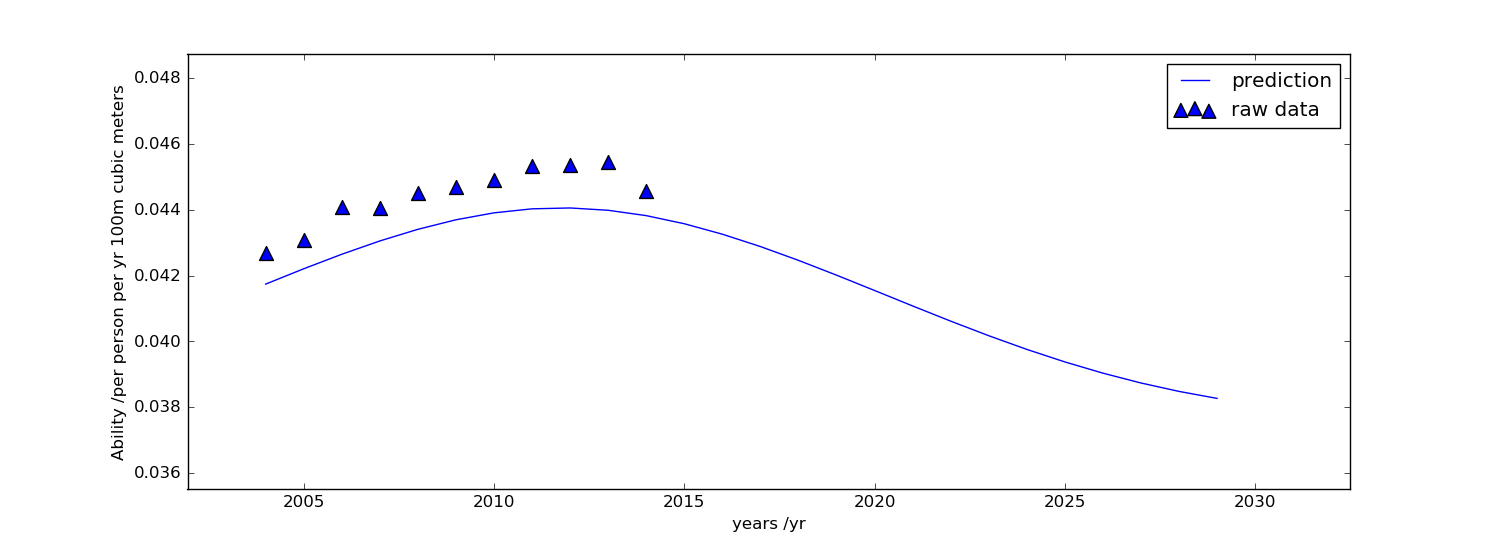
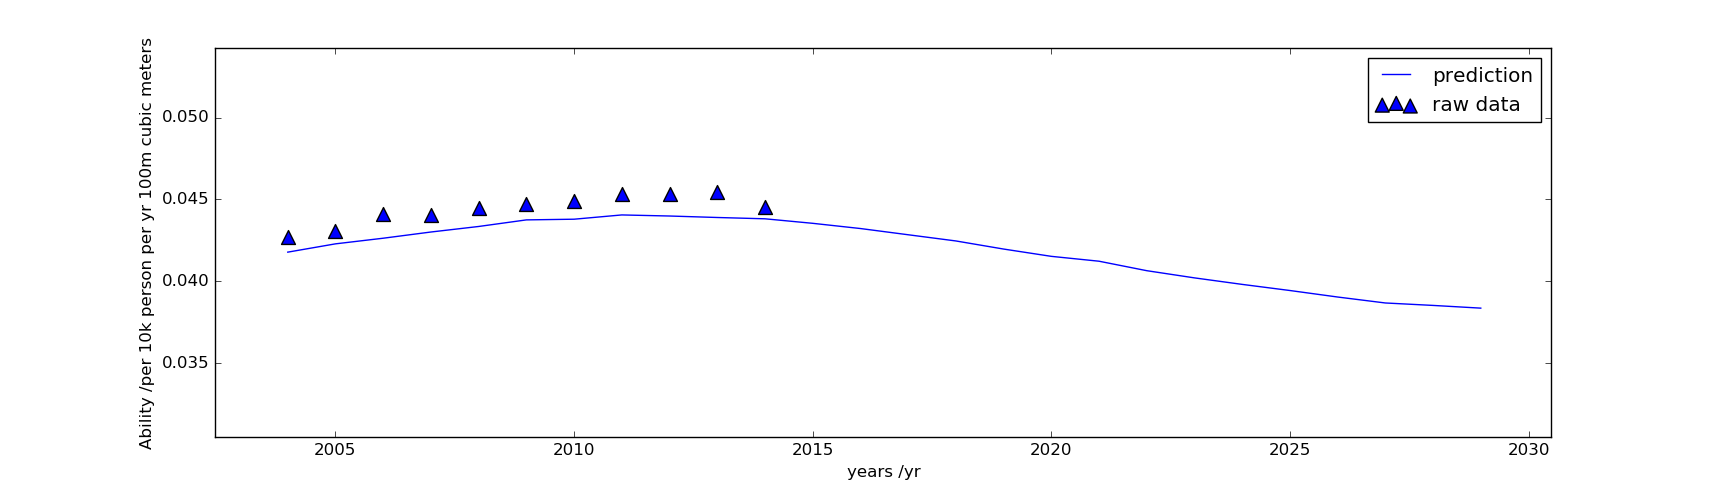
fixed

diff --git a/projectw/src/Region.py b/projectw/src/Region.py
@@ -26,13 +26,13 @@ f = open('ability.md','w')
 for i in range(2014,2030):
     f.write('year:%s\n ability:%s\n'%(i,AverSupply(i)))
 
-# plt.figure()
-# plt.xlabel("years /yr")
-# plt.ylabel("Ability /per person per yr 100m cubic meters")
-# plt.scatter(years,[Data.WaterUseTotal[t]/Data.Population[t] for t in years],marker="^",s=100,label='raw data')
-# plt.plot(range(2004,2030),[AverSupply(i) for i in range(2004,2030)],'b-',label="prediction")
-# plt.legend(loc=0)
-# plt.show()
+plt.figure()
+plt.xlabel("years /yr")
+plt.ylabel("Ability /per 10k person per yr 100m cubic meters")
+plt.scatter(years,[Data.WaterUseTotal[t]/Data.Population[t] for t in years],marker="^",s=100,label='raw data')
+plt.plot(range(2004,2030),[AverSupply(i) for i in range(2004,2030)],'b-',label="prediction")
+plt.legend(loc=0)
+plt.show()
 
 # plt.figure()
 # plt.xlabel("years /yr")

diff --git a/projectw/intervention.md b/projectw/intervention.md
@@ -30,6 +30,17 @@
 ## 修建水利设置
 - 修建水利设施,降低工业用水变化速率
 
+## intervention plan
+As shown in our prediction. China will suffer from water scarcity in 15 years. Therefore we designed an intervention plan to avoid this situation. 
+
+To introduce the natural uncertainty from environment, a normal distributed random variable with variance of each factor is added to prominent parameters.
+The variance of Ability shows the sensitivity of a given region.
+
+>the 
+
+### Industry Intervention
+
+
 AgricultureWater
 
 population [ -1.308e+03   5.070e-02   3.425e+04]
@@ -54,15 +65,4 @@ Electricity [  1.44199462e+03   3.10130409e-10   4.45432350e+04]
 
 p[0]*np.exp(-p[1]*(x-p[2])**2)
 
-
-
-## intervention plan
-As shown in our prediction. China will suffer from water scarcity in 15 years. Therefore we designed an intervention plan to avoid this situation. 
-
-To introduce the natural uncertainty from environment, a normal distributed random variable with variance of each factor is added to prominent parameters.
-The variance of Ability shows the sensitivity of a given region.
-
-
-
-### Industry Intervention
 

diff --git a/ability.md b/ability.md
@@ -1,0 +1,32 @@
+year:2014
+ ability:0.0438706288214
+year:2015
+ ability:0.0435523621487
+year:2016
+ ability:0.0432642408684
+year:2017
+ ability:0.0428658338117
+year:2018
+ ability:0.0424757494799
+year:2019
+ ability:0.0419142387171
+year:2020
+ ability:0.0414936922654
+year:2021
+ ability:0.0410944616188
+year:2022
+ ability:0.0406132348356
+year:2023
+ ability:0.0402136224207
+year:2024
+ ability:0.0398815882482
+year:2025
+ ability:0.0393870571798
+year:2026
+ ability:0.0390070330258
+year:2027
+ ability:0.0387742141391
+year:2028
+ ability:0.0385469077061
+year:2029
+ ability:0.0382404707629
